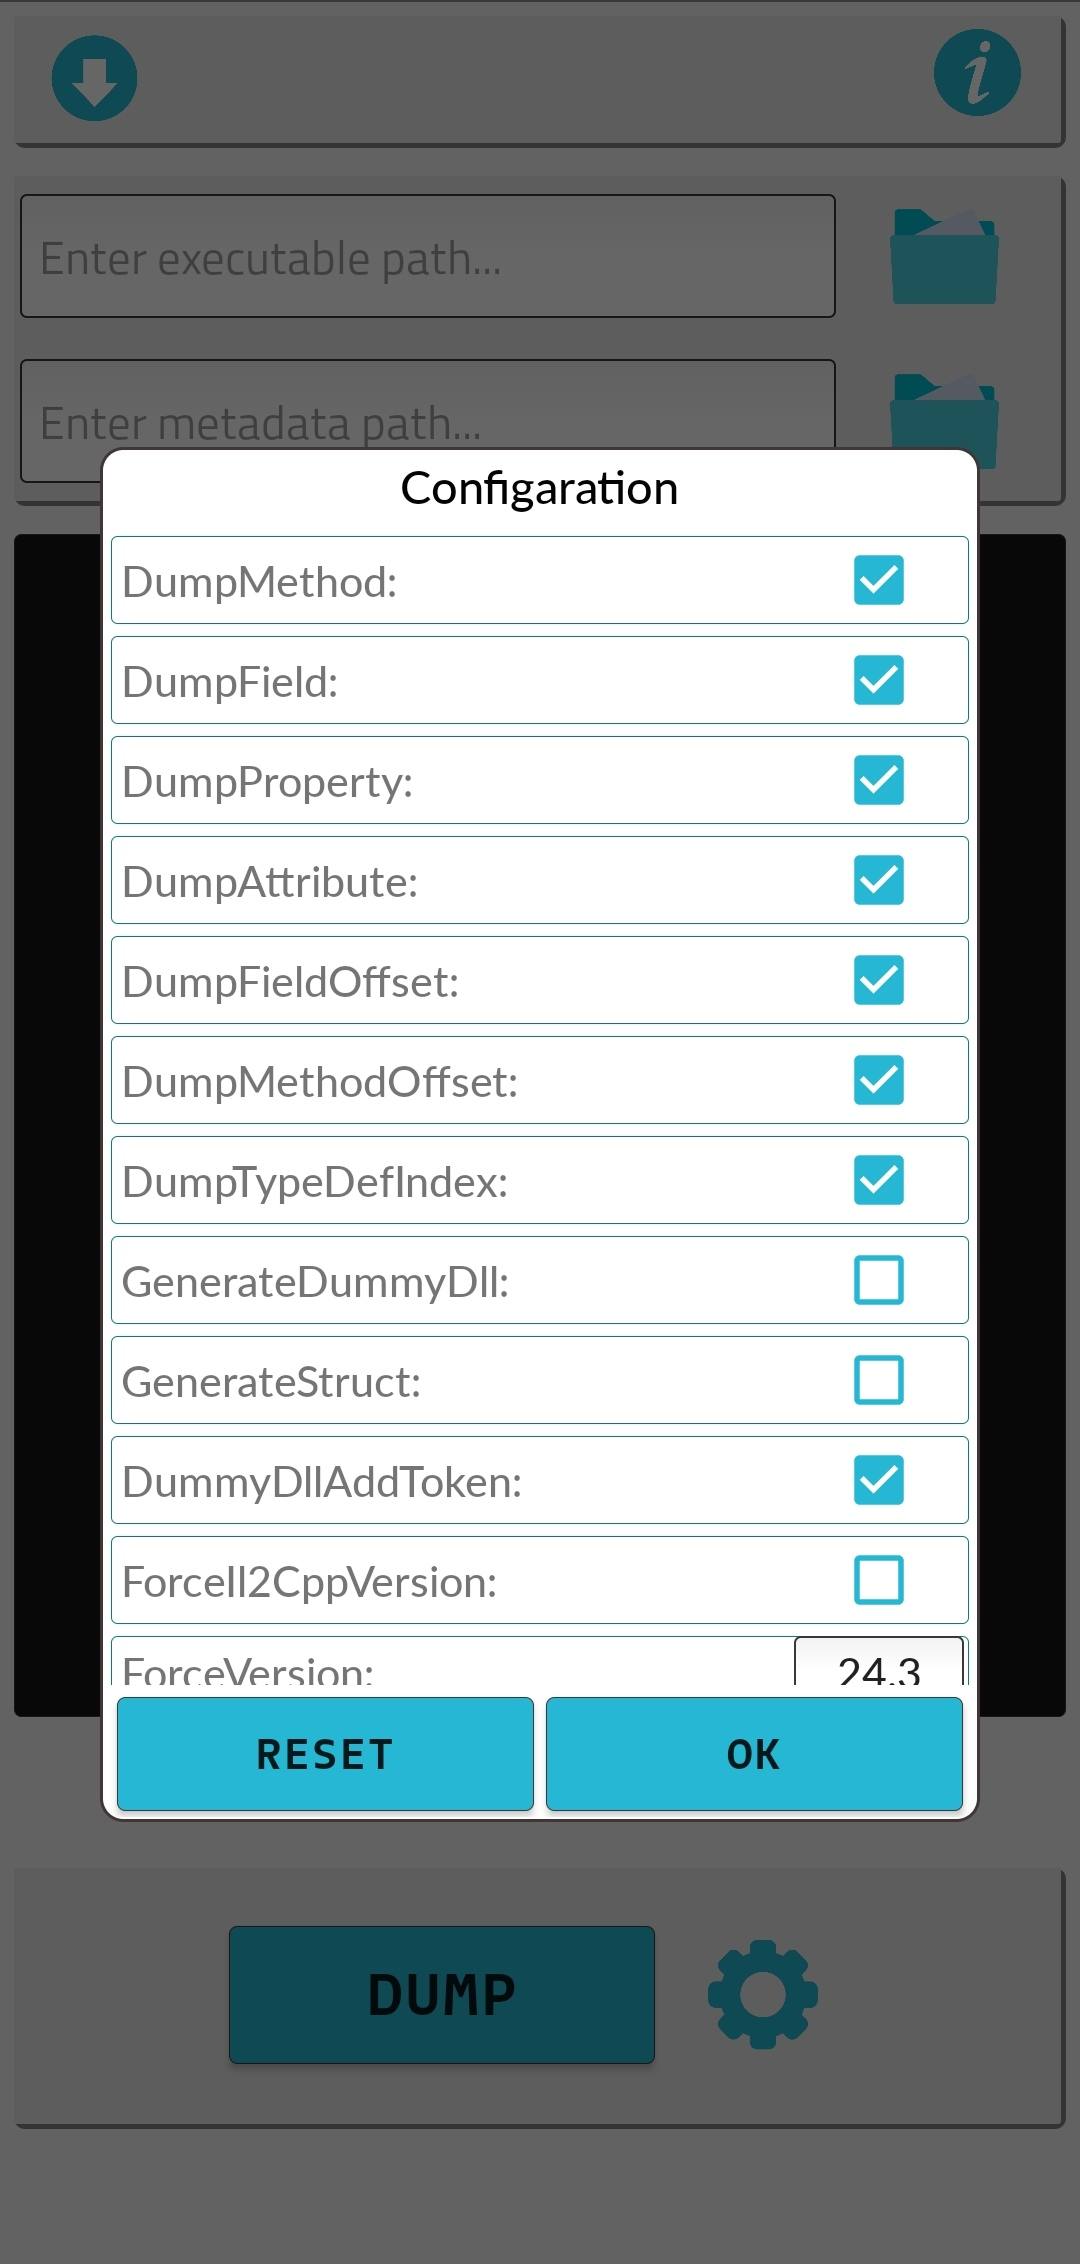
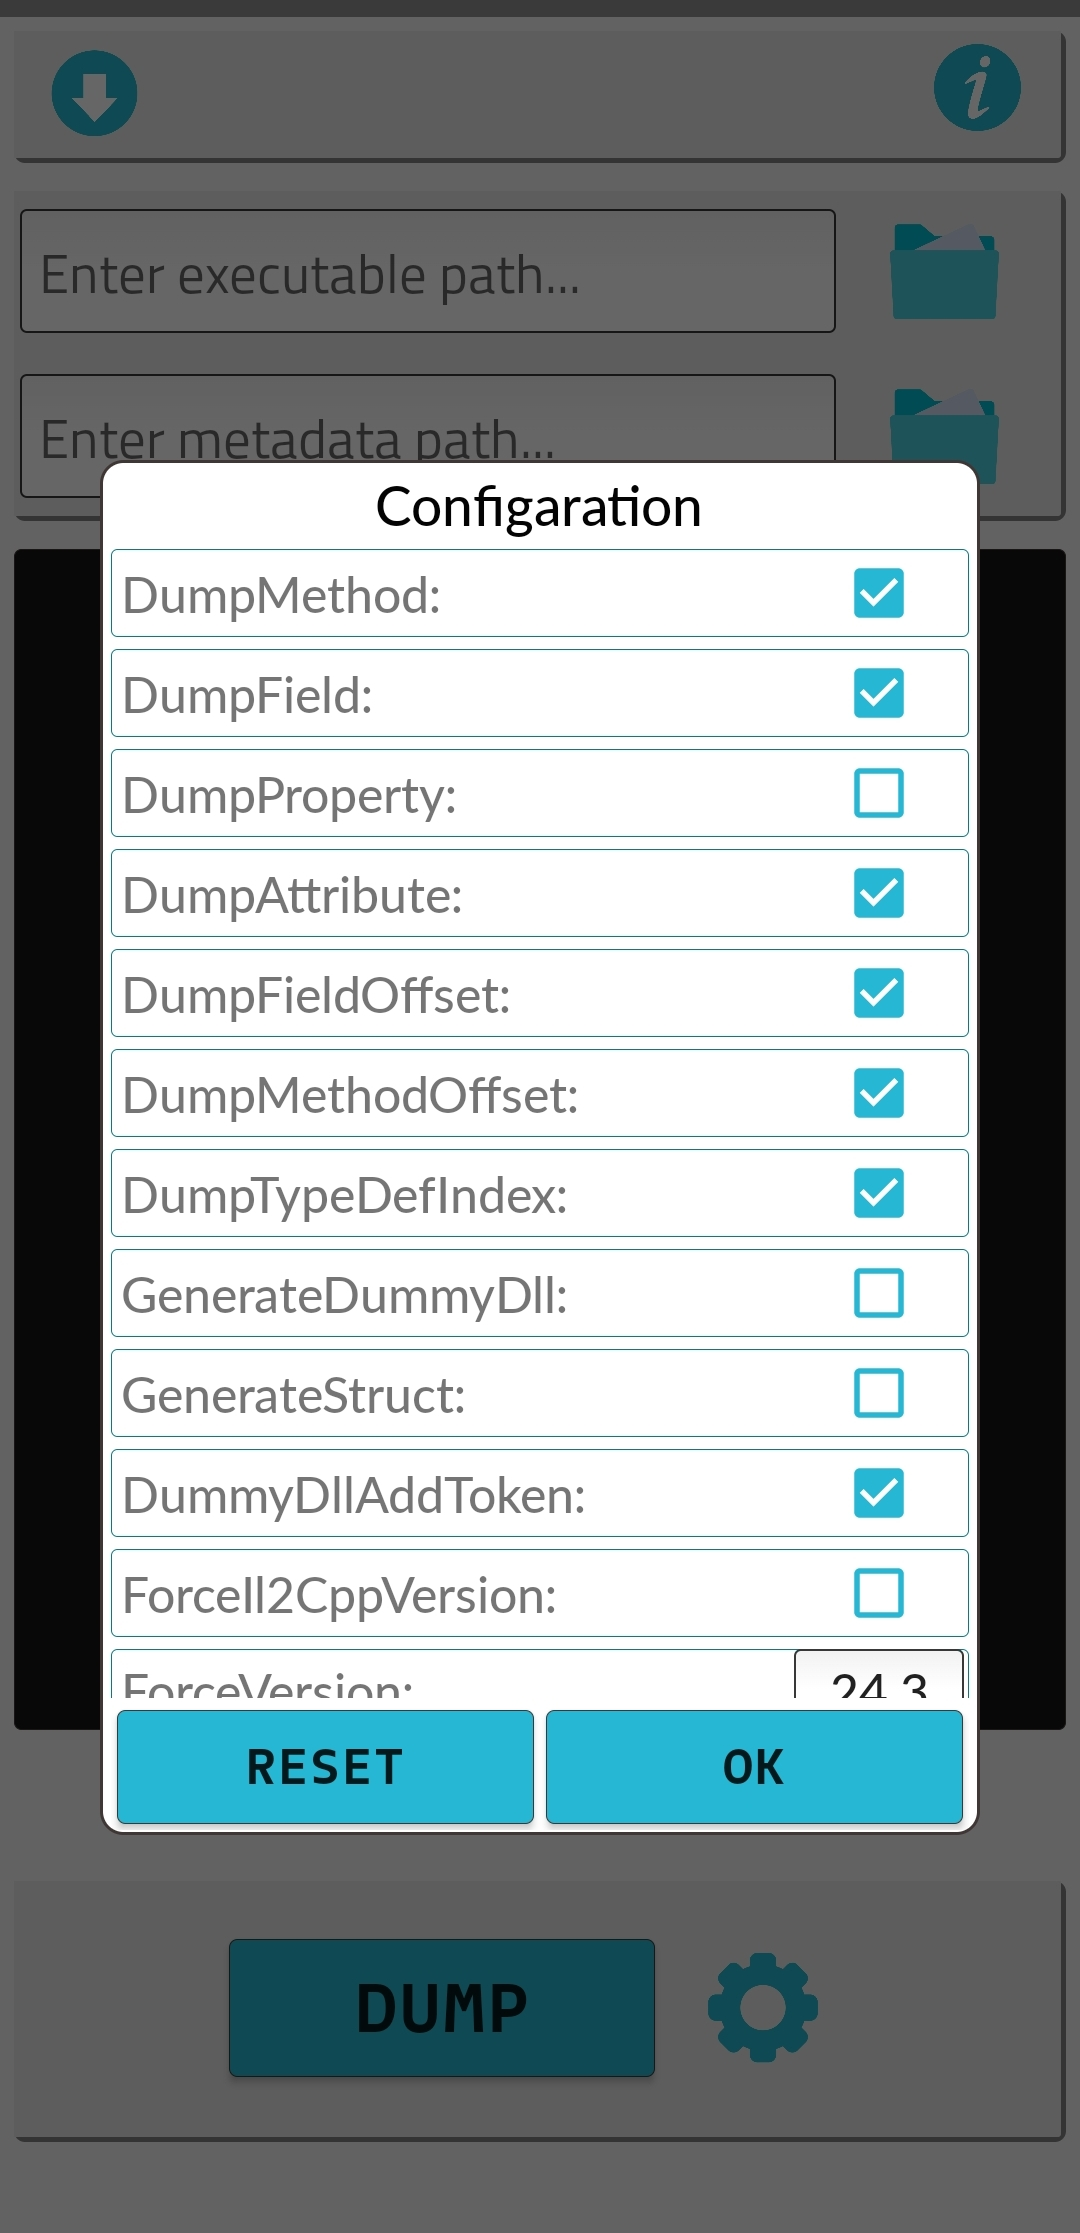
Update v2.1.0

Changed region(s): [[0.0, 0.0, 1.0, 0.9579]]

diff --git a/README.md b/README.md
@@ -1,7 +1,30 @@
-# Il2CppDumperGUI
-This is [@Perfare's](https://github.com/Perfare/Il2CppDumper) Modified version of il2cppDumper (GUI)  for Android
+<p align="center">
+  <img src="Images/icon.png" alt="Il2CppDumperGUI" width="80" height="80"/>
+</p>
 
-# Preview
+<h2 align="center"><b>Il2CppDumperGUI</b></h2>
+<p align="center">
+  This is <a href="https://github.com/Perfare/Il2CppDumper">@Perfare's</a> Modified version of Il2CppDumper (GUI)  for Android
+<p><br>
+
+<p align="center">
+<!-- Latest release -->
+<a href="https://github.com/Poko-Apps/Il2cppDumpDroidGUI/releases/tag/v2.1.0">
+<img src="https://img.shields.io/github/v/release/Poko-Apps/Il2cppDumpDroidGUI?label=Latest%20Release" alt="Latest release">
+</a>
+<!-- Total Downloads -->
+<a href="https://github.com/Poko-Apps/Il2cppDumpDroidGUI/releases/tag/v2.1.0">
+<img src="https://img.shields.io/github/downloads/Poko-Apps/Il2cppDumpDroidGUI/total?label=Total%20Downloads" alt="Total Downloads">
+</a>
+<!-- License -->
+<a href="https://github.com/Poko-Apps/Il2cppDumpDroidGUI/blob/master/LICENSE">
+<img src="https://img.shields.io/badge/License-GPLv3-8A2BE2.svg" alt="License">
+</a>
+</p>
+
+
+
+## Preview
 <img src="Images/home.jpg" width="300" height= "580"/>
 <details>
 <summary>More ScreenShots</summary>
@@ -14,16 +37,32 @@ This is [@Perfare's](https://github.com/Perfare/Il2CppDumper) Modified version o
 </details>
 
 
-# Supported Versions
-* Android 5 - Android 13
-* API Level 21 - API Level 33
+## Supported Devices
+* Android 6 - Android 14
+* API Level 23 - API Level 34
+* Apk shipped with only **armeabi-v7a** and **arm64-v8a** architecture 
 
-# Tested
-  > Tested in Android 6, 10, 11, 12L physical device
+## Tested
+  > Tested in Android 6 & 13 physical device
 
 
-# Recent Change Log
+## Recent Change Log
 <details open>
+<summary> v2.1.0</summary>
+
+* Merged latest [commit](https://github.com/Perfare/Il2CppDumper/commit/217f1d4737cd9d9d16ab5bef355156bcbc44f9e0) from upstream
+* Fixed [[#issue-2](https://github.com/Poko-Apps/Il2cppDumpDroidGUI/issues/2)]
+* Project Migration Xamarin.Android -> .NET Android
+* Support for Android 14
+* Minimum android set to 6
+* Saving and Resetting configuration now saved as preferences for next time .
+* Output directory log color changed to a bit more bright
+* Unused Dump**N** folder inside "DumpDroid" folder now reused in next dump .
+* In Configaration Dialog, DumpProperty by default disabled
+* Some Code improvements
+</details>
+
+<details>
 <summary> v2.0.1</summary>
 
 * Android 10 crash fixed [[#issue-1](https://github.com/Poko-Apps/Il2cppDumpDroidGUI/issues/1)]
@@ -33,56 +72,37 @@ This is [@Perfare's](https://github.com/Perfare/Il2CppDumper) Modified version o
 * Support for android 12L & 13
 * Overall stability and bug fixes 
 </details>
-
-<details>
-<summary> v2.0.0</summary>
-
-* Major Update of GUI
-* changed package name for better access
-* added support for all executable that original dumper supports
-  * ELF 32 / 64
-  * PE
-  * MACH-O FAT / 32 / 64
-  * NSO
-  * WEB-ASSEMBLY
-* reduced overall size
-* optimised performance
-* Fixed Bugs
-</details>
 <br>
 <hr>
 
 For all change logs [[Click here]](ChangeLogs/ch-logs.md)
 
-# Installation
- While installation process , play protect might warn you . Like this :
- > <img src="Images/error.jpg" width="300" height= "300"/>
- If so then click 'Install Anyway'.  
- <i>If installation <b>failed</b> for any reason, uninstall the previous version and try again !!</i>
+## Installation/update
+ If you're updating the app from previous version, then please uninstall previous one first .
+As I've signed new apks with different keystore (lost previous one 🥲)
 
+<i>If installation <b>failed</b> for any reason, uninstall the previous version and try again !!</i>
 
-# Notes 
+## Notes 
 * Protected Target's can't be dump by this dumper (same as [@Perfare's](https://github.com/Perfare/Il2CppDumper) one)
 * If you find any bug or problem then please kindly report it with proper information, I'll try my best to resolve it.
 * In low-end devices it take a while to dump .
 * Output files directory is under 'DumpDroid' folder
-* <b>App is on active devlopment</b>
-# Download
->> Download : [Latest Release](https://github.com/Poko-Apps/Il2cppDumpDroidGUI/releases/tag/v2.0.1)
->> Download : [Direct Link[apk]](https://github.com/Poko-Apps/Il2cppDumpDroidGUI/releases/download/v2.0.1/Il2CppDumperGUI_v2.0.1.apk)
+* Visit Perfare's [Dumper](https://github.com/Perfare/Il2CppDumper) , To know more about it .
 
-# Q/A
-* Does it supports dumping with address of memory ?
-> Yes , It does!
-* What about user input CodeRegistration & MetadataRegistration offset ?
-> Dumper will ask you in runtime .
+## Download
+>> Download : [Latest Release](https://github.com/Poko-Apps/Il2cppDumpDroidGUI/releases/tag/v2.1.0)
+>> Download : [Direct Link[apk]](https://github.com/Poko-Apps/Il2cppDumpDroidGUI/releases/download/v2.1.0/Il2CppDumperGUI_v2.1.0_Performance_AOT+LLVM.apk)
 
-# This Repo
+In Latest Release section two variants of apk provided . Performance one is compiled with AOT (Ahead of Time) + LLVM configaration and provides 15-40% faster speed when dumping . classic one is just like old releases and less in size . **Recommend one is Performance apk**
+
+## This Repo
 <b><i>This repo is just to distribute the application (apk) and doesn't contain any code at all ,
-hence all tags is dummy & have no use . Make your business with just the release section. I'm not taking any responsibility for misuse of this app .
+hence all tags is dummy & have no use . Make your business with just the release section. And not to mention i'm not taking any responsibility for misuse of this app .
 </i></b>
-# Credits
+
+## Credits
  * [Il2CppDumper](https://github.com/Perfare/Il2CppDumper)
 
-# Communication
+## Communication
  * [Discord](https://discord.gg/XxBYZztJdE)

diff --git a/ChangeLogs/ch-logs.md b/ChangeLogs/ch-logs.md
@@ -1,4 +1,19 @@
 <details open>
+<summary> v2.1.0</summary>
+
+* Merged latest [commit](https://github.com/Perfare/Il2CppDumper/commit/217f1d4737cd9d9d16ab5bef355156bcbc44f9e0) from upstream
+* Fixed [[#issue-2](https://github.com/Poko-Apps/Il2cppDumpDroidGUI/issues/2)]
+* Project Migration Xamarin.Android -> .NET Android
+* Support for Android 14
+* Minimum android set to 6
+* Saving and Resetting configuration now saved as preferences for next time .
+* Output directory log color changed to a bit more bright
+* Unused Dump**N** folder inside "DumpDroid" folder now reused in next dump .
+* In Configaration Dialog, DumpProperty by default disabled
+* Some Code improvements
+</details>
+
+<details>
 <summary> v2.0.1</summary>
 
 * Android 10 crash fixed [[#issue-1](https://github.com/Poko-Apps/Il2cppDumpDroidGUI/issues/1)]
